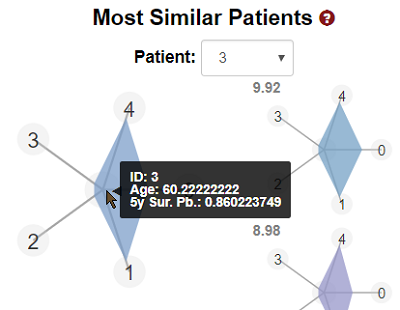
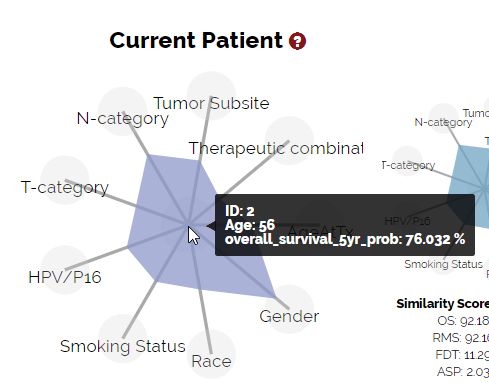
kiviat help added

diff --git a/index.html b/index.html
@@ -719,6 +719,7 @@
               <li>Clicking the <strong>Cohort</strong> button will show the subgroup analysis of the selected patients</li>
               <li><strong>Survival Over Time</strong> view in the left shows the probability of survival over time</li>
               <li><strong>Survival and Toxicity Risk Prediction</strong> shows a graphical calculating device for Probability fo Survival</li>
+              <li><strong>Lymph Nodes Clusters</strong> button will show the Lymph Node Clusters Page</li>
               <li>The Bottom Part shows patient attributes. The <strong>Current Patient</strong> view shows the attributes of the selected
                  patient and the <strong>Most Similar Patients</strong> view shows the attributes of patients that are most similar to the 
                  selected patient</li>
@@ -739,7 +740,7 @@
     <div class="modal-dialog" role="document">
       <div class="modal-content">
         <div class="modal-header">
-          <h5 class="modal-title" id="exampleModalLabel">Most Similar Patients (Star Plots)</h5>
+          <h3 class="modal-title" id="exampleModalLabel">Current Patient and Most Similar Patients</h3>
           <button type="button" class="close" data-dismiss="modal" aria-label="Close">
             <span aria-hidden="true">&times;</span>
           </button>
@@ -750,17 +751,22 @@
                     <img src="imgs/kiviat/select-dropdown.png"  style="width: 50%; display: block; margin-left: auto; margin-right: auto;">
                     <br><br>
                 </li>
-                <li>Kiviat Diagram Shows five characteristics of the patient
+                <li><strong>Current Patient</strong> view shows the current selected patient</li>
+                <li><strong>Most Similar Patients</strong> view shows five most similar patients for the selected patient</li>
+                <li>The views shows nine characteristics of the patient
                     <ul>
                         <li>Age</li>
                         <li>Gender</li>
                         <li>Race</li>
                         <li>T-Category</li>
                         <li>N-Category</li>
+                        <li>Tumor Subsite</li>
+                        <li>Therapeutic Combination</li>
+                        <li>Smoking Status</li>
+                        <li>HPV/P16</li>
                     </ul>
                 </li>
                 <li>The Color indicates probabilty of survival</li>
-                <li>For each selected patient five most similar patients in the repository are shown</li>
                 <li>Mouse Over to see details <br><br>
                     <div style="display:flex;">
                         <div style="flex: 50%; padding: 5px;">
@@ -773,6 +779,10 @@
                     <!-- <img src="imgs/kiviat/mouseOver.png" style="width: 50%; display: inline-block; margin-left: auto; margin-right: auto;">
                     <img src="imgs/kiviat/mouseOverAxis.png" style="width: 50%; display: inline-block; margin-left: auto; margin-right: auto;"> -->
                 </li>
+                <li>For each similar patient, similarity score and different survival probability are shown beneath each view</li>
+                <li>Use the controll settings to select Attributes for calculating most similar patients (KNN Attributes Used)</li>
+                <li>Use the controll settings to see less or more patient axes (Patient Axes Control)</li>
+
               </ul>
         </div>
         <div class="modal-footer">
